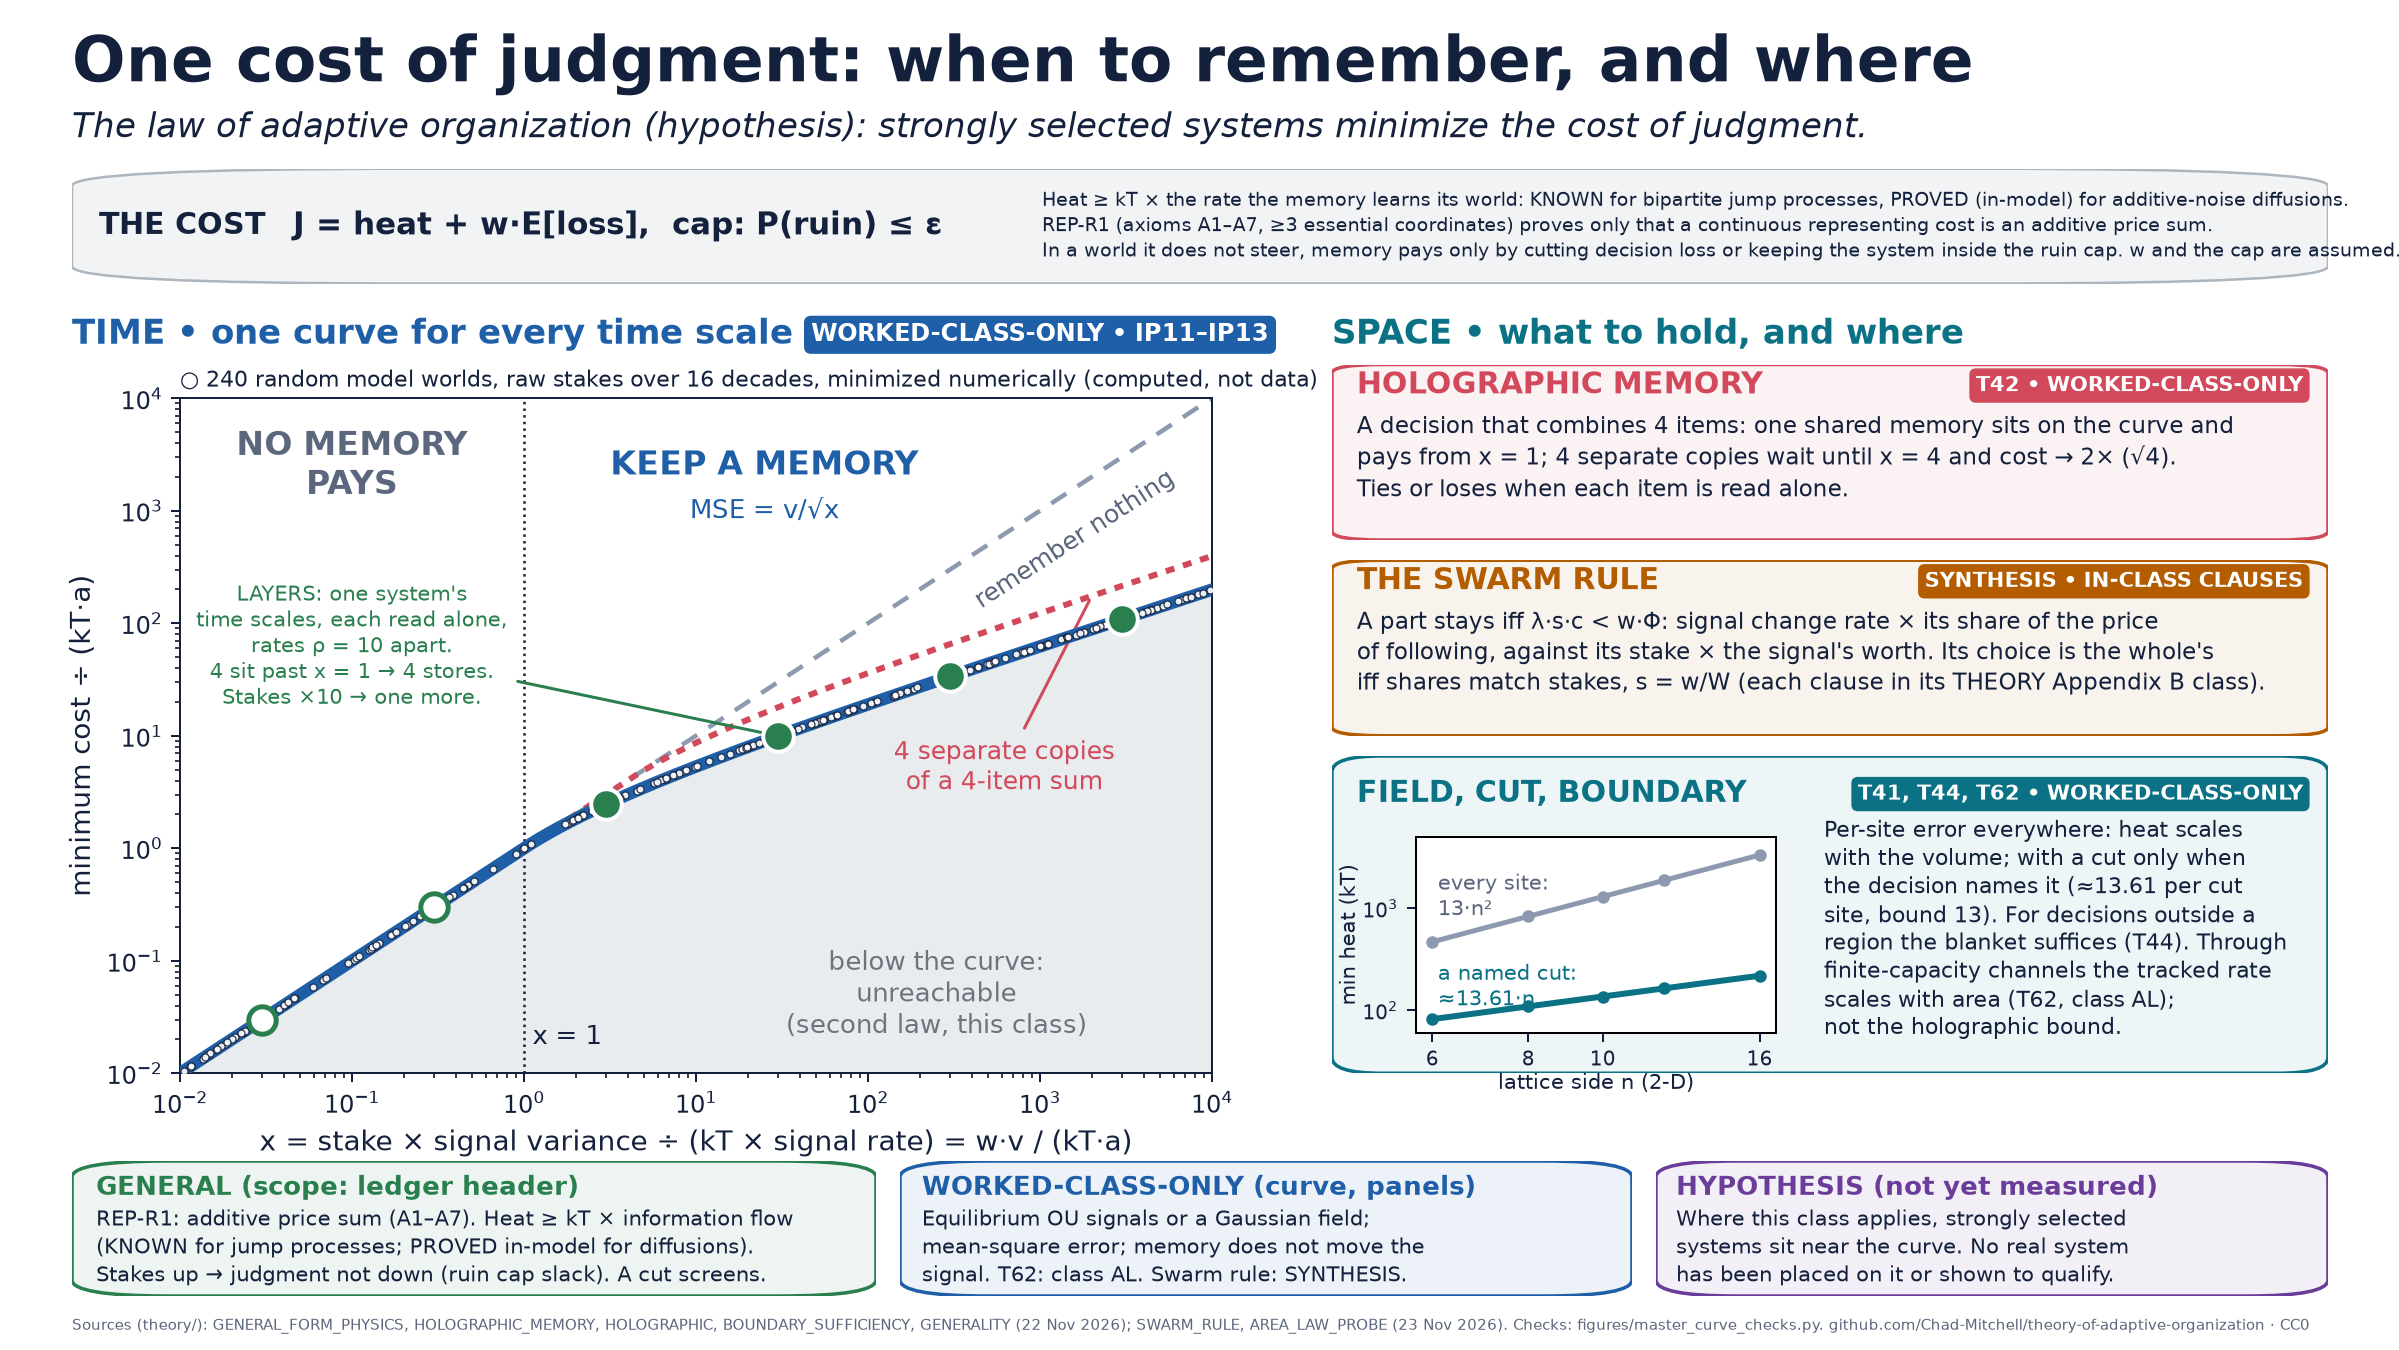
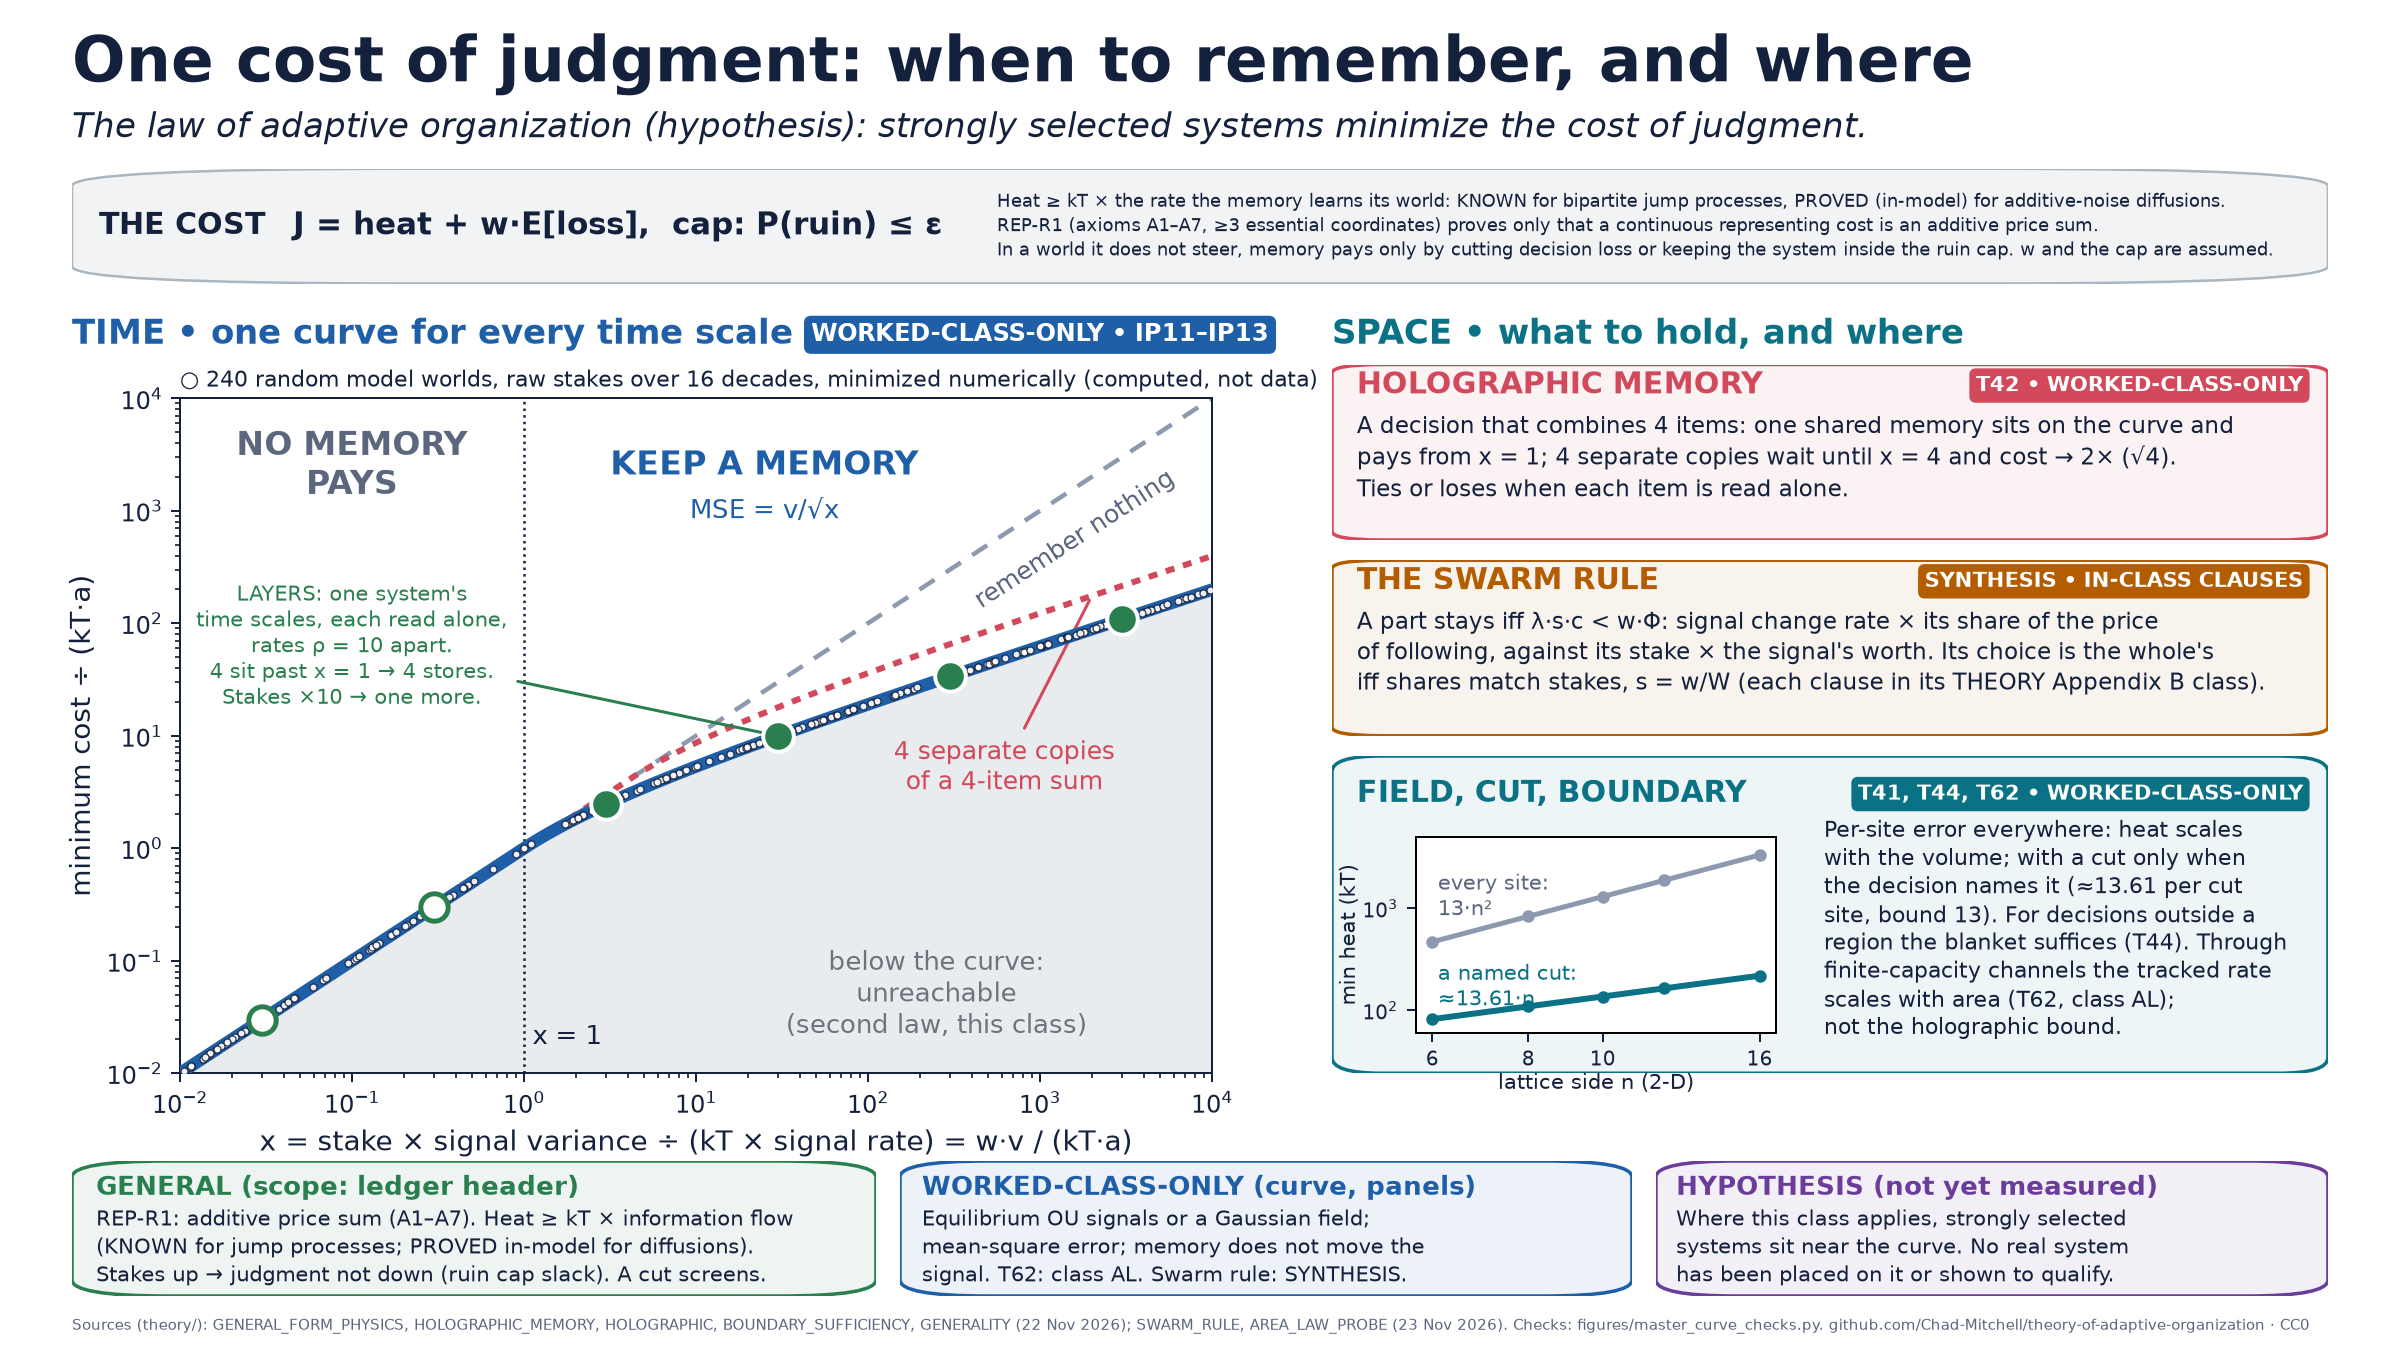
master_curve: the cost-box note moves to x=0.41 at 7.2 pt so it fits inside its box (was 73 px over; review item 2)

Changed region(s): [[0.401, 0.1244, 0.9562, 0.1867]]

diff --git a/figures/master_curve.py b/figures/master_curve.py
@@ -35,11 +35,11 @@ axc.add_patch(FancyBboxPatch((0, 0), 1, 1, boxstyle="round,pad=0,rounding_size=0
 axc.text(0.012, 0.5, "THE COST", fontsize=12, fontweight="bold", color=NAVY, va="center", transform=axc.transAxes)
 axc.text(0.098, 0.5, "J = heat + w\u00b7E[loss],  cap: P(ruin) \u2264 \u03b5", fontsize=12.4, color=NAVY, va="center",
          transform=axc.transAxes, fontweight="bold")
-axc.text(0.43, 0.5,
+axc.text(0.41, 0.5,
          "Heat \u2265 kT \u00d7 the rate the memory learns its world: KNOWN for bipartite jump processes, PROVED (in-model) for additive-noise diffusions.\n"
          "REP-R1 (axioms A1\u2013A7, \u22653 essential coordinates) proves only that a continuous representing cost is an additive price sum.\n"
          "In a world it does not steer, memory pays only by cutting decision loss or keeping the system inside the ruin cap. w and the cap are assumed.",
-         fontsize=7.5, color=NAVY, va="center", transform=axc.transAxes, linespacing=1.35)
+         fontsize=7.2, color=NAVY, va="center", transform=axc.transAxes, linespacing=1.35)
 
 # ---------------- TIME panel: the curve ----------------
 ax = fig.add_axes([0.075, 0.205, 0.43, 0.50])
